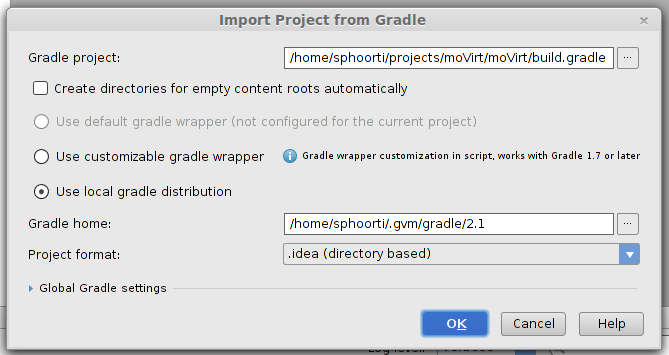
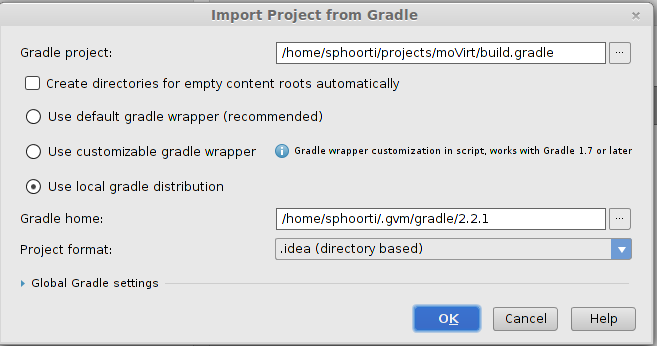
Updated README.md based on new android studio and gradle version.

Changed region(s): [[0.0, 0.0, 1.0, 1.0]]

diff --git a/README.md b/README.md
@@ -12,7 +12,9 @@ After install, you need to set the connection details up.
 * **API URL**: http://host:port/ovirt-engine/api
 * **Username**: name@domain - e.g. admin@internal
 * **Password**: your password
- 
+* **Admin User**: enable or disable the checkbox  
+* **Disable Https**: enable or disable the checkbox   
+
 **Video tutorials at a glance:**  
 1. [Interaction between the moVirt and ovirt-engine](https://github.com/sphoorti/moVirt/blob/master/videos/liveSetup.webm)  
    This video tutorial assumes you have an ovirt-engine running with a few VMS. It gives a demonstration of the basic    configuraton of VM using the ovirt-engine and filling up connection details in the android application.  
@@ -31,27 +33,28 @@ To start contributing to moVirt, you will need to install the following things-
    1. Untar the android sdk and change the directory to android-sdk-linux/tools. Run ./android.
    2. After the newly opened window has fetched URLs from the mirror
       Select the following and press Install  
-      Tools->Android SDK tools, Android SDK Platform tools and Android SDK Build-tools version 20    
+      Tools->Android SDK tools, Android SDK Platform tools and Android SDK Build-tools version 20 and version 21      
       Android 4.4w 
       Android Support Repository  
       Accept License  
       Press Install  
    3. Android API 20 is the required SDK. You can install additional SDK as per your needs.  
-* [Android Studio 0.8.11](http://tools.android.com/download/studio/canary/0-8-11)
-* [Gradle version 2.1](http://gvmtool.net/)  
+  
+* [Android Studio 1.0.0](http://tools.android.com/download/studio/canary/1-0-0)
+* [Gradle version 2.2.1](http://gvmtool.net/)  
 
 Once the installations are done, you can proceed to import the project into the workspace.  
-1. File -> Open -> ~/" *path to moVirt project* "/moVirt/moVirt/build.gradle  
-2. On the import dialog : Select local gradle distribution. Give the path to gradle version 2.1 .      
+1. File -> Open -> ~/" *path to moVirt project* "/moVirt/build.gradle  
+2. On the import dialog : Select local gradle distribution. Give the path to gradle version 2.2.1 .      
    <img src = https://github.com/sphoorti/moVirt/blob/master/images/import_project.png align="center" height = "480px" width="640px">    
    After this, the prompt asks you to enter the path to the android sdk.  
    You can refer the following image for the complete SDK path.    
    <img src = https://github.com/sphoorti/moVirt/blob/master/images/sdk_location.png align="center" height = "480px" width="640px">    
 3. Press OK. The build takes a while to complete. After it is done, the project is reloaded.  
 4. Run the android application on an emulator or a developer's device.  
-    Run -> Run -> Select moVirt   
+    Run -> Run -> Select moVirt-moVirt   
       *For the first time* Run -> Edit Configurations  
-      Click on the + icon -> Android application -> in right panel General tab select the moVirt module.  
+      Click on the + icon -> Android application -> in right panel General tab select the moVirt-moVirt module.  
       Click Apply. Click OK.  
 
 **Resources:**    
